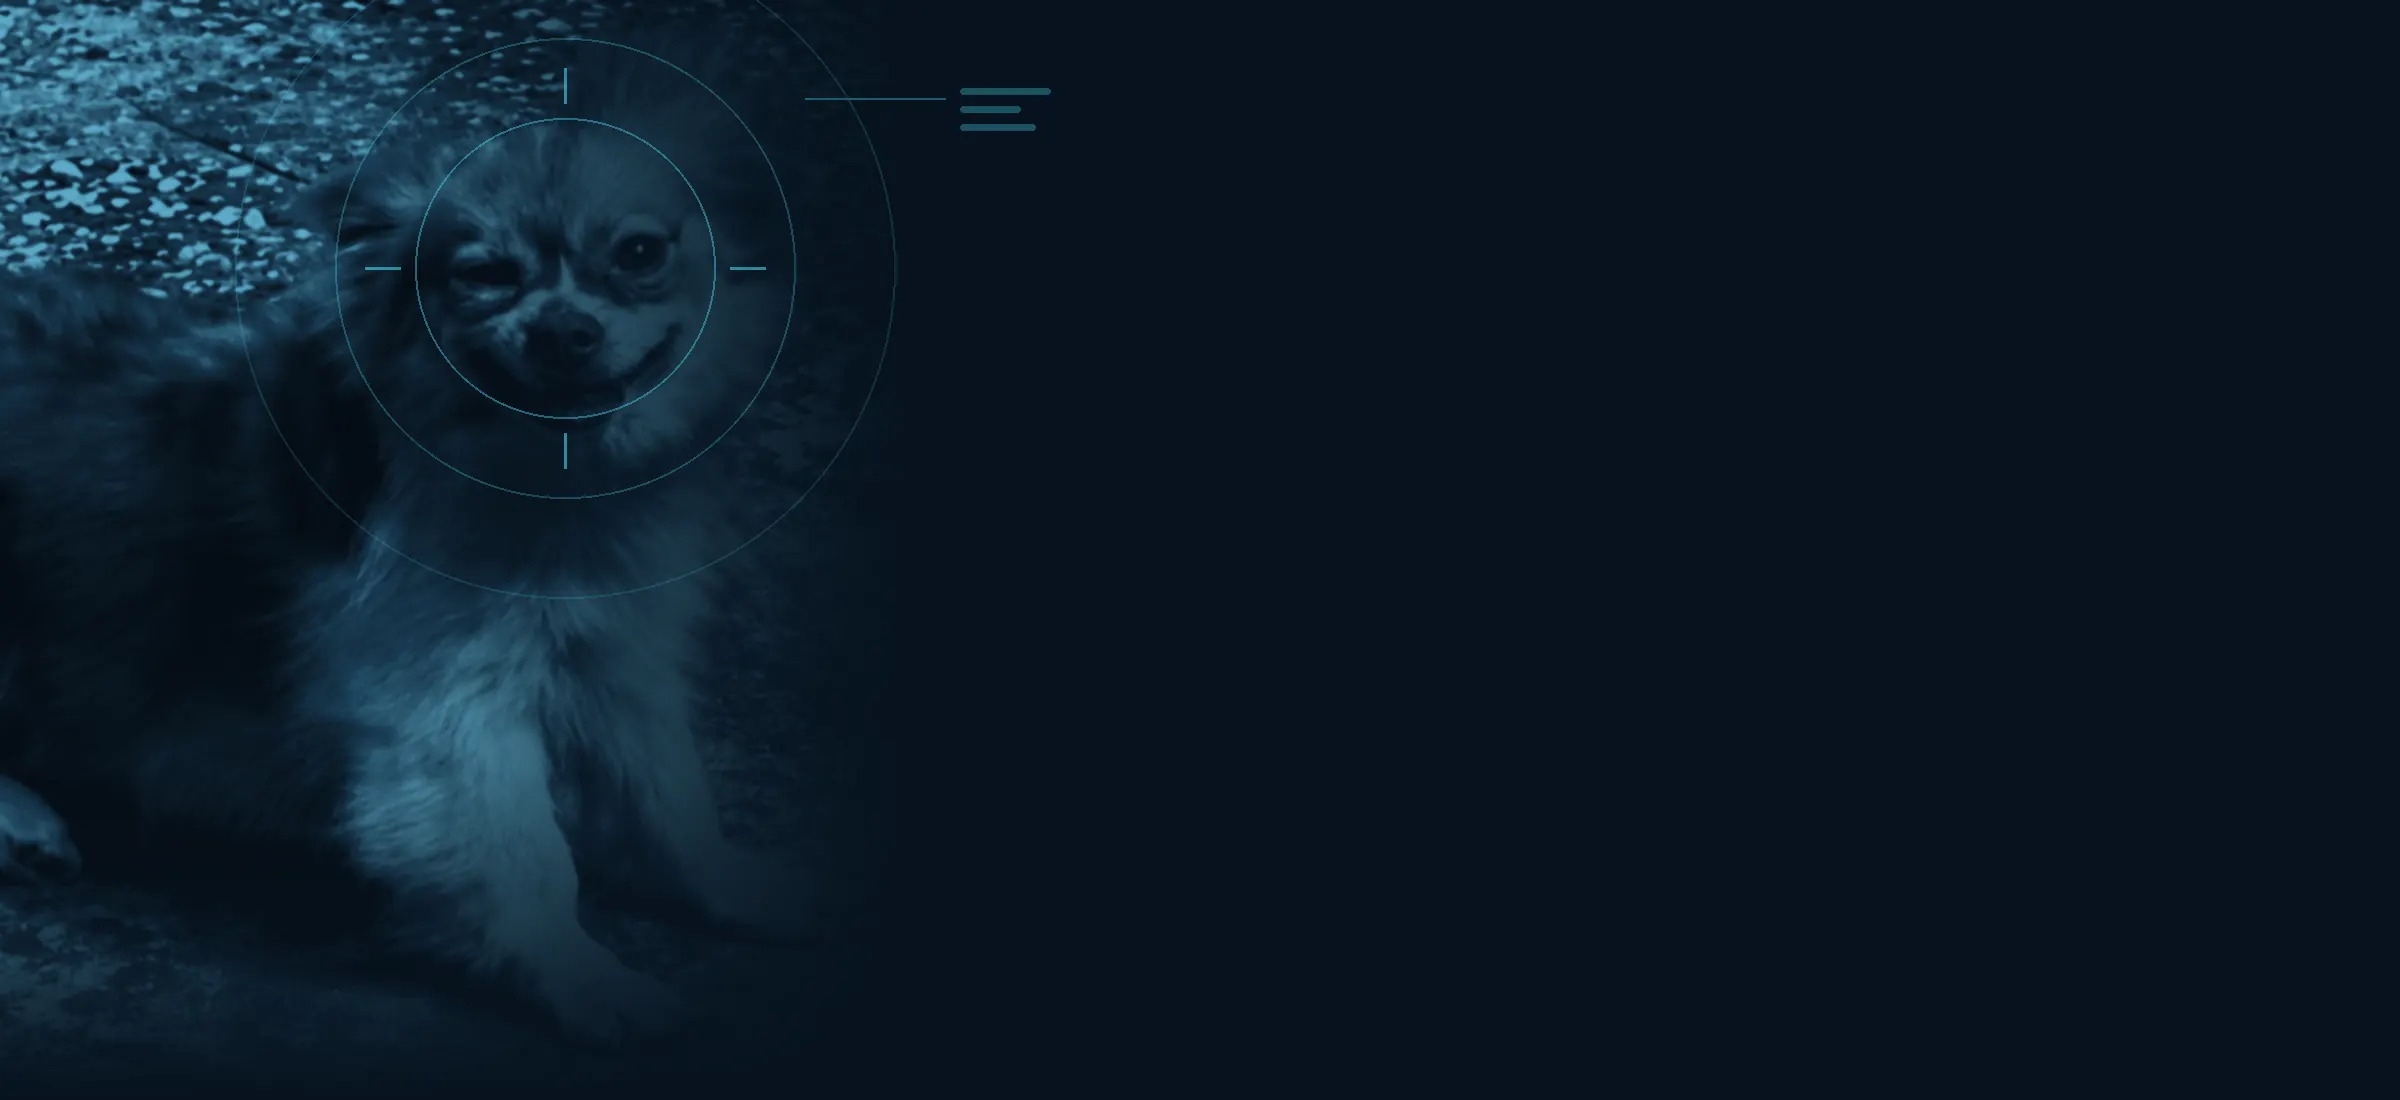
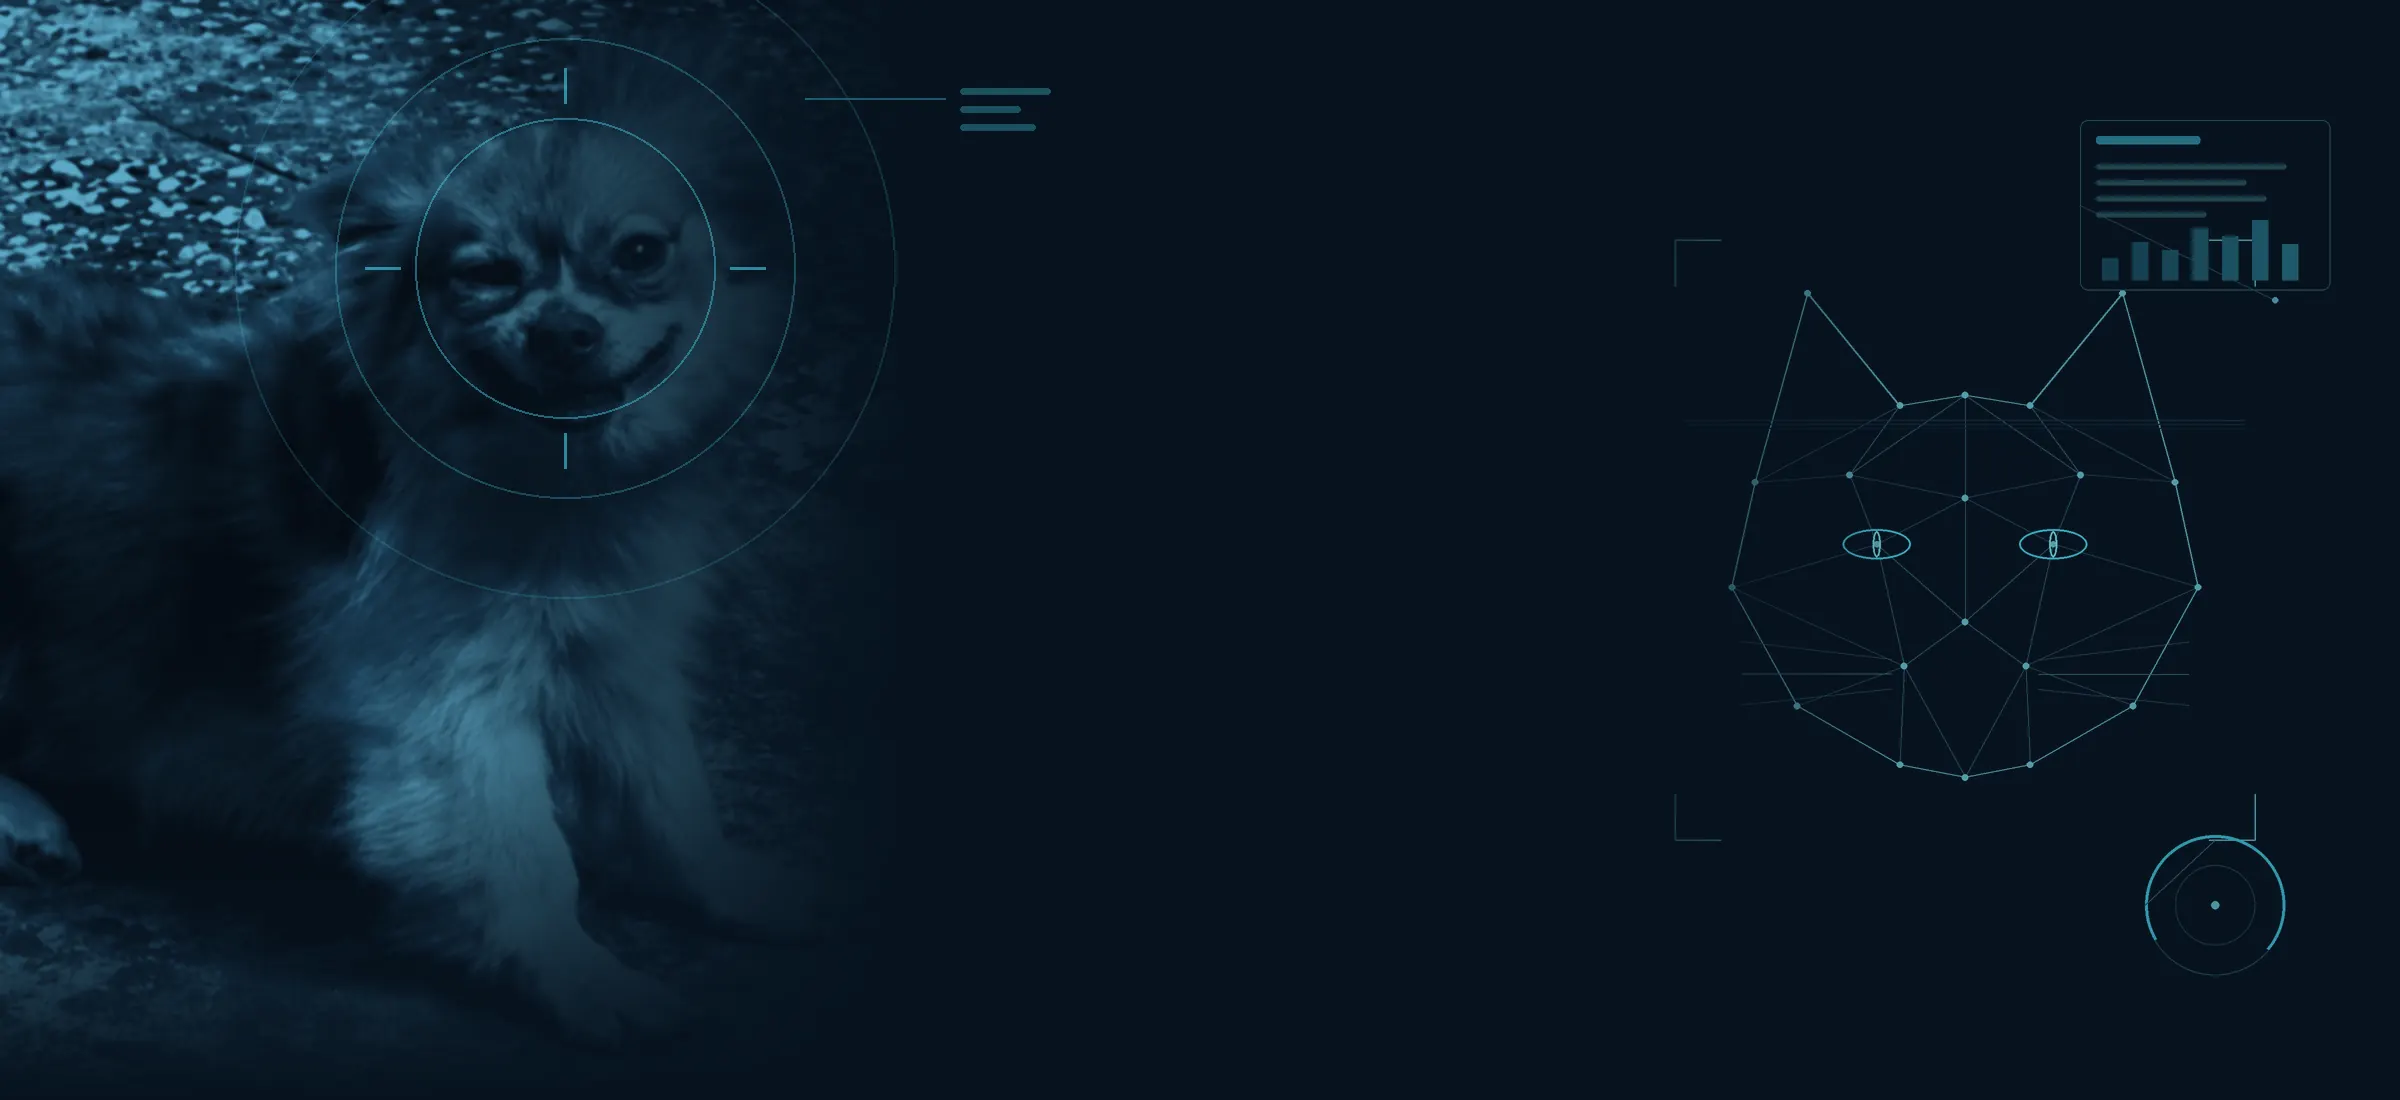
Improve public site cards, terminology, and hero background

Changed region(s): [[0.875, 0.1236, 0.9688, 0.2782], [0.8438, 0.4636, 0.875, 0.5255], [0.9062, 0.7418, 0.9375, 0.7727]]

diff --git a/src/components/info/InfoCard.tsx b/src/components/info/InfoCard.tsx
@@ -35,17 +35,26 @@ export function InfoCard({ item, showCategory = false }: Props) {
           {item.summary}
         </p>
 
-        <dl className="mt-4 grid grid-cols-[auto_1fr] gap-x-3 gap-y-1 border-t border-line pt-4 text-xs">
+        {/* 名前（人物名／事業者名／団体名）と地域を目立たせる。動物種別は一覧では表示しない（詳細ページで表示） */}
+        <dl className="mt-4 grid grid-cols-[auto_1fr] items-baseline gap-x-4 gap-y-2 border-t border-line pt-4">
           {item.subjectName && (
             <>
-              <dt className="text-slate-500">{item.subjectLabel}</dt>
-              <dd className="font-medium text-slate-100">{item.subjectName}</dd>
+              <dt className="text-[11px] tracking-wide text-slate-500">{item.subjectLabel}</dt>
+              <dd
+                className={`min-w-0 break-words ${
+                  item.subjectName === "非公表" ? "text-sm font-medium text-slate-400" : "text-base font-bold leading-snug text-slate-50"
+                }`}
+              >
+                {item.subjectName}
+              </dd>
             </>
           )}
-          <dt className="text-slate-500">地域</dt>
-          <dd className="text-slate-300">{item.region}</dd>
-          <dt className="text-slate-500">動物種別</dt>
-          <dd className="text-slate-300">{item.animalType}</dd>
+          {item.region && (
+            <>
+              <dt className="text-[11px] tracking-wide text-slate-500">地域</dt>
+              <dd className="min-w-0 break-words text-sm font-medium text-slate-200">{item.region}</dd>
+            </>
+          )}
         </dl>
         <span className="mt-4 text-xs font-semibold text-cyan-300 transition-colors group-hover:text-cyan-200">
           詳細を見る

diff --git a/src/lib/cms/defaults.ts b/src/lib/cms/defaults.ts
@@ -24,7 +24,7 @@ const policies: Record<CategorySlug, string> = {
   "animal-abuse":
     "本カテゴリは報道機関・公的機関が公表した情報のみをもとに掲載しています。「逮捕」「書類送検」「起訴」は捜査・裁判の段階を示すもので、有罪が確定したことを意味しません。判決についても、確定の有無は情報源に記載がある場合のみ記載しています。",
   "bad-business":
-    "本カテゴリは行政処分・公的発表・裁判・信頼できる報道など、客観的根拠が確認できる案件のみを掲載しています。口コミや評判のみを根拠とした掲載は行いません。逮捕・起訴は有罪が確定したことを意味しません。",
+    "本カテゴリは行政処分・公的発表・裁判・信頼できる報道など、客観的根拠が確認できる事案のみを掲載しています。口コミや評判のみを根拠とした掲載は行いません。逮捕・起訴は有罪が確定したことを意味しません。",
   "good-business":
     "本カテゴリは自治体・公的機関による認定や表彰、第三者機関の認証、信頼できる報道など、掲載理由が確認できる事業者・団体のみを掲載しています。当サイト独自の推薦ではありません。",
 };

diff --git a/src/components/case/CaseGallery.tsx b/src/components/case/CaseGallery.tsx
@@ -96,7 +96,7 @@ export function CaseGallery({ images }: { images: CaseImage[] }) {
     <section
       className="mt-6"
       aria-roledescription="画像ギャラリー"
-      aria-label="案件画像"
+      aria-label="事案画像"
       onKeyDown={(e) => {
         if (!paged) return;
         if (e.key === "ArrowRight" && hasNext) goNext();
@@ -144,7 +144,7 @@ export function CaseGallery({ images }: { images: CaseImage[] }) {
         ref={dialogRef}
         onClick={(e) => e.target === e.currentTarget && closeZoom()}
         className="m-0 h-dvh max-h-none w-screen max-w-none bg-transparent p-0 backdrop:bg-night/90 backdrop:backdrop-blur-sm"
-        aria-label="案件画像の拡大表示"
+        aria-label="事案画像の拡大表示"
       >
         {zoomed && zoomIndex !== null && (
           <div className="flex h-full flex-col" onClick={(e) => e.target === e.currentTarget && closeZoom()}>

diff --git a/src/components/comments/CommentForm.tsx b/src/components/comments/CommentForm.tsx
@@ -103,7 +103,7 @@ function CommentFields({ category, slug, state, pending, formAction }: FieldsPro
           defaultValue={values?.body}
           aria-invalid={Boolean(errors.body)}
           className={`${inputClass} resize-y leading-relaxed`}
-          placeholder="この案件について追加の情報があれば記入してください。"
+          placeholder="この事案について追加の情報があれば記入してください。"
         />
         {errors.body ? (
           <p className={errorClass}>{errors.body}</p>

diff --git a/src/lib/cases/index.ts b/src/lib/cases/index.ts
@@ -59,7 +59,7 @@ function summarize(c: {
     updatedAt: c.updatedAt,
     ...(c.category === "animal-abuse"
       ? { subjectLabel: "人物名", subjectName: c.personName ?? "非公表" }
-      : { subjectLabel: "事業者名", subjectName: c.businessName ?? undefined }),
+      : { subjectLabel: c.category === "good-business" ? "団体名" : "事業者名", subjectName: c.businessName ?? undefined }),
   };
 }
 
